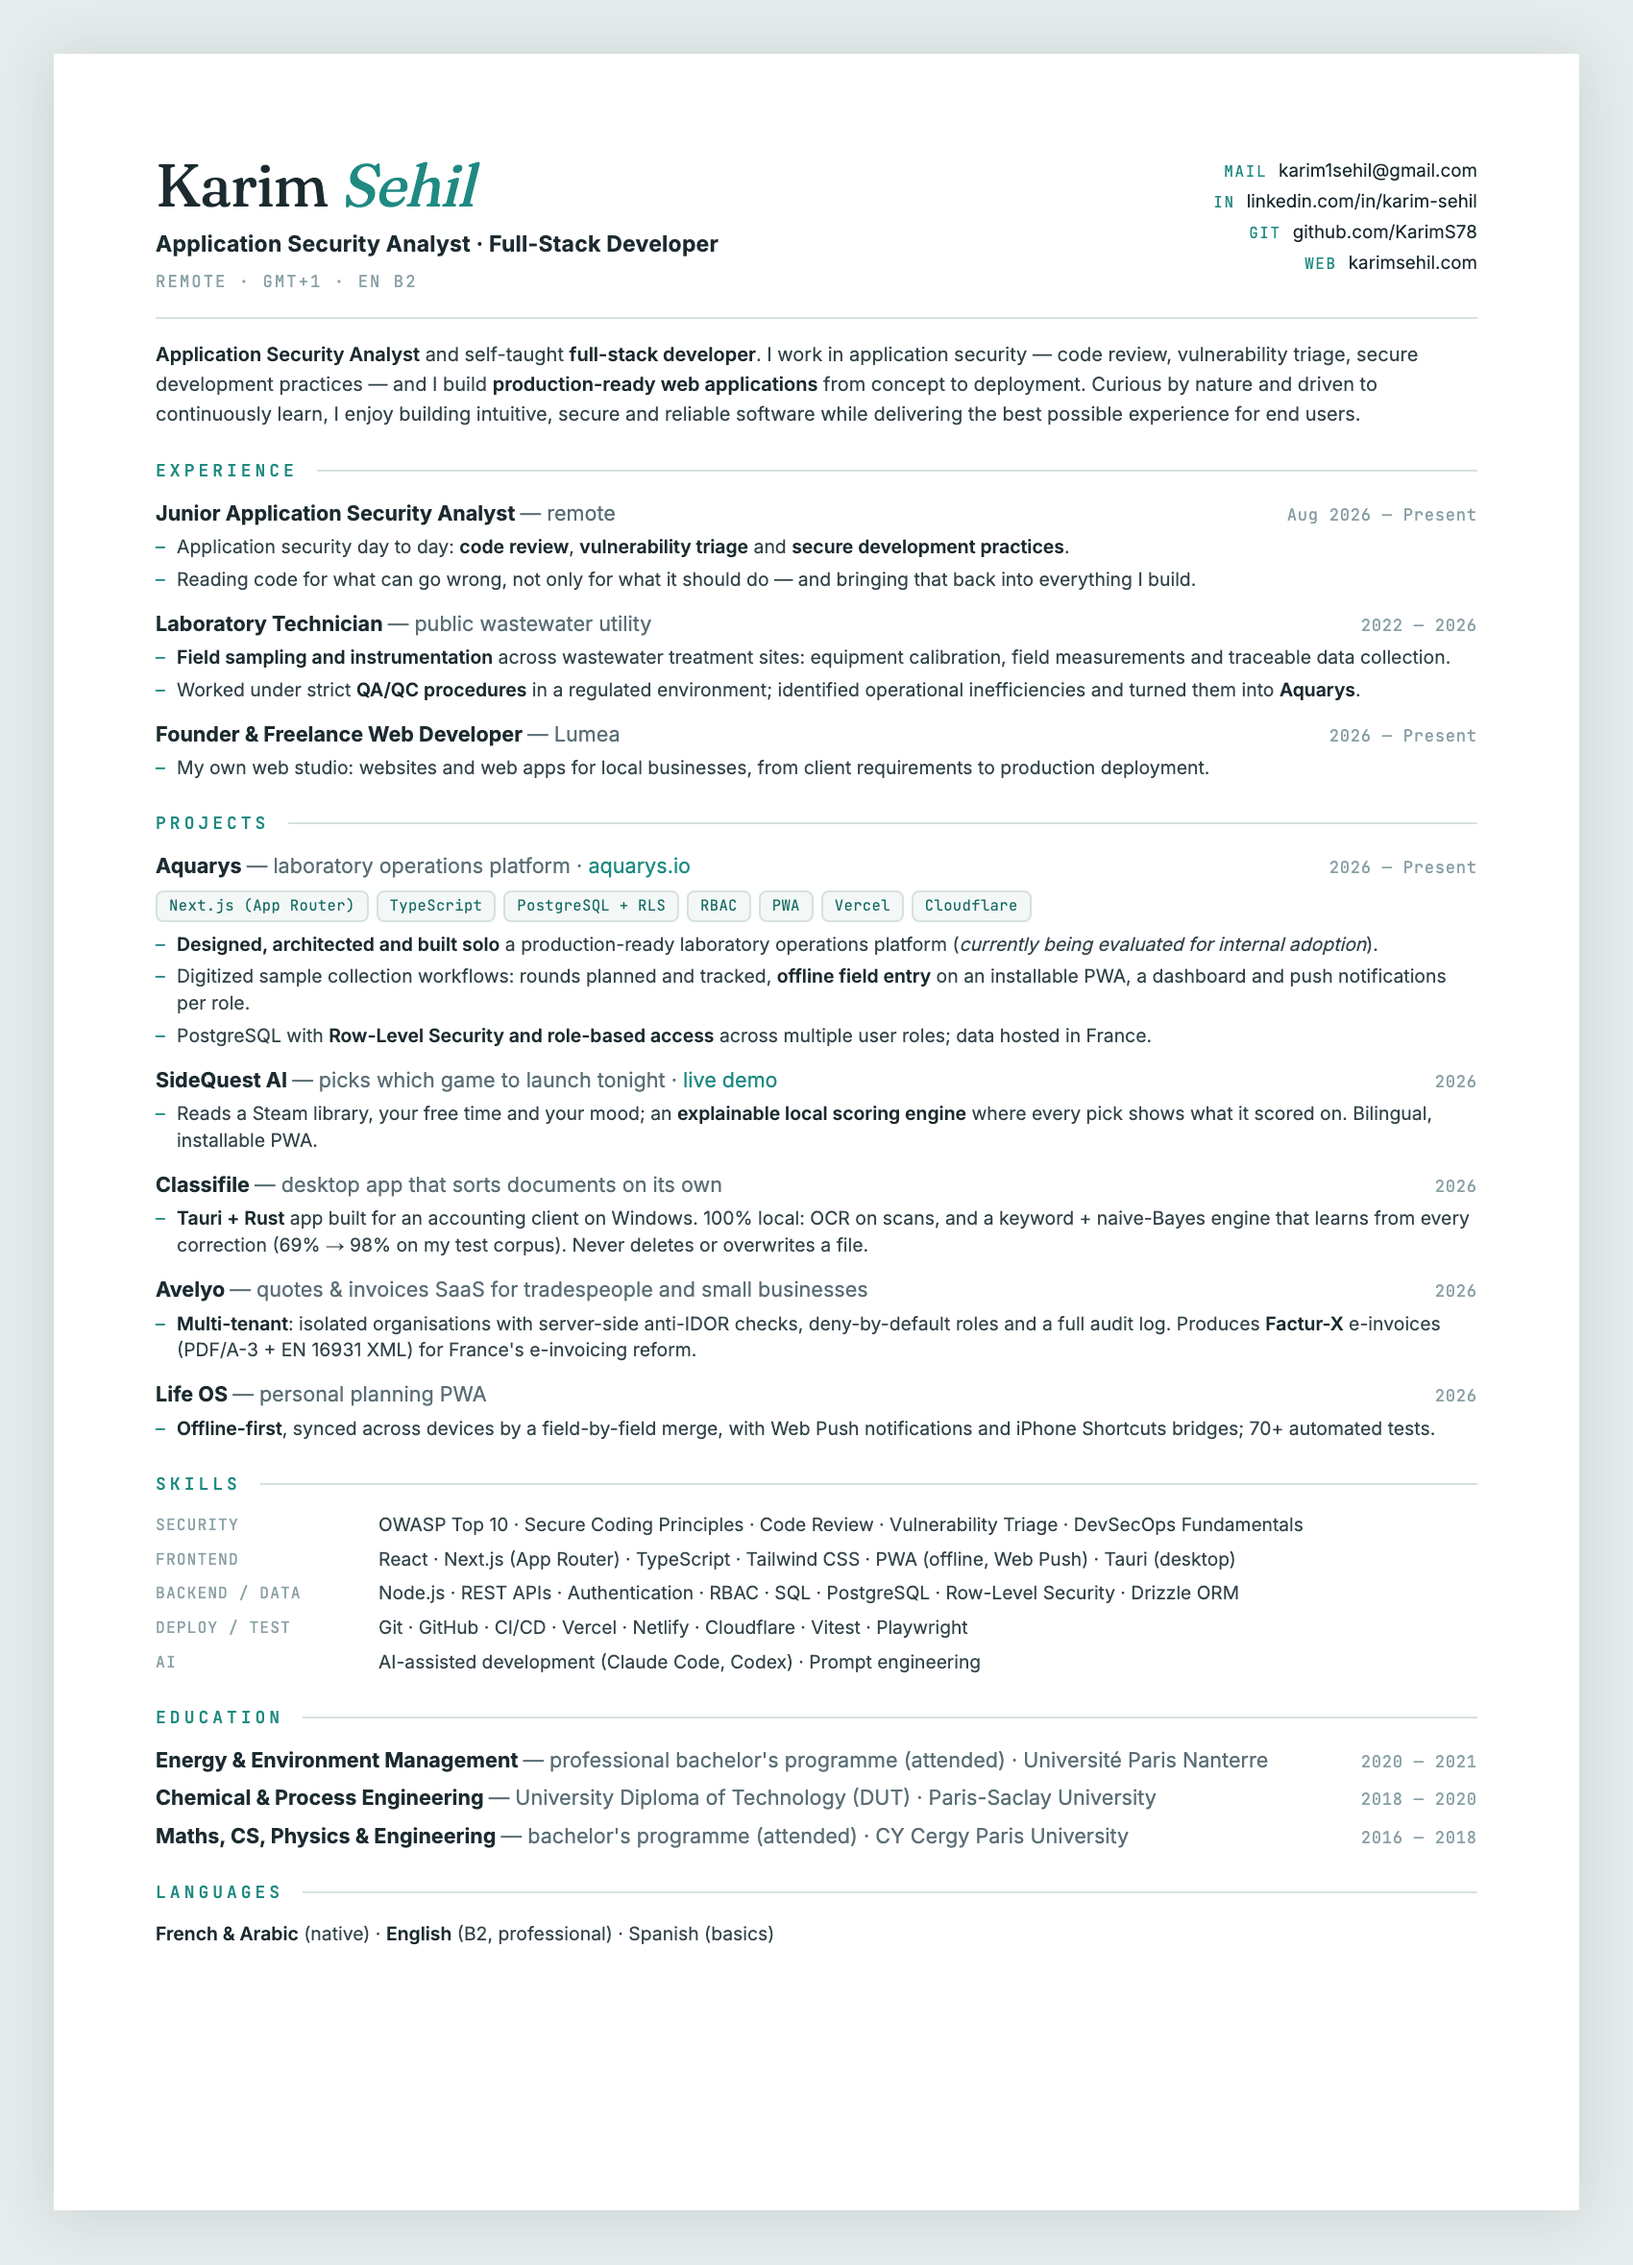
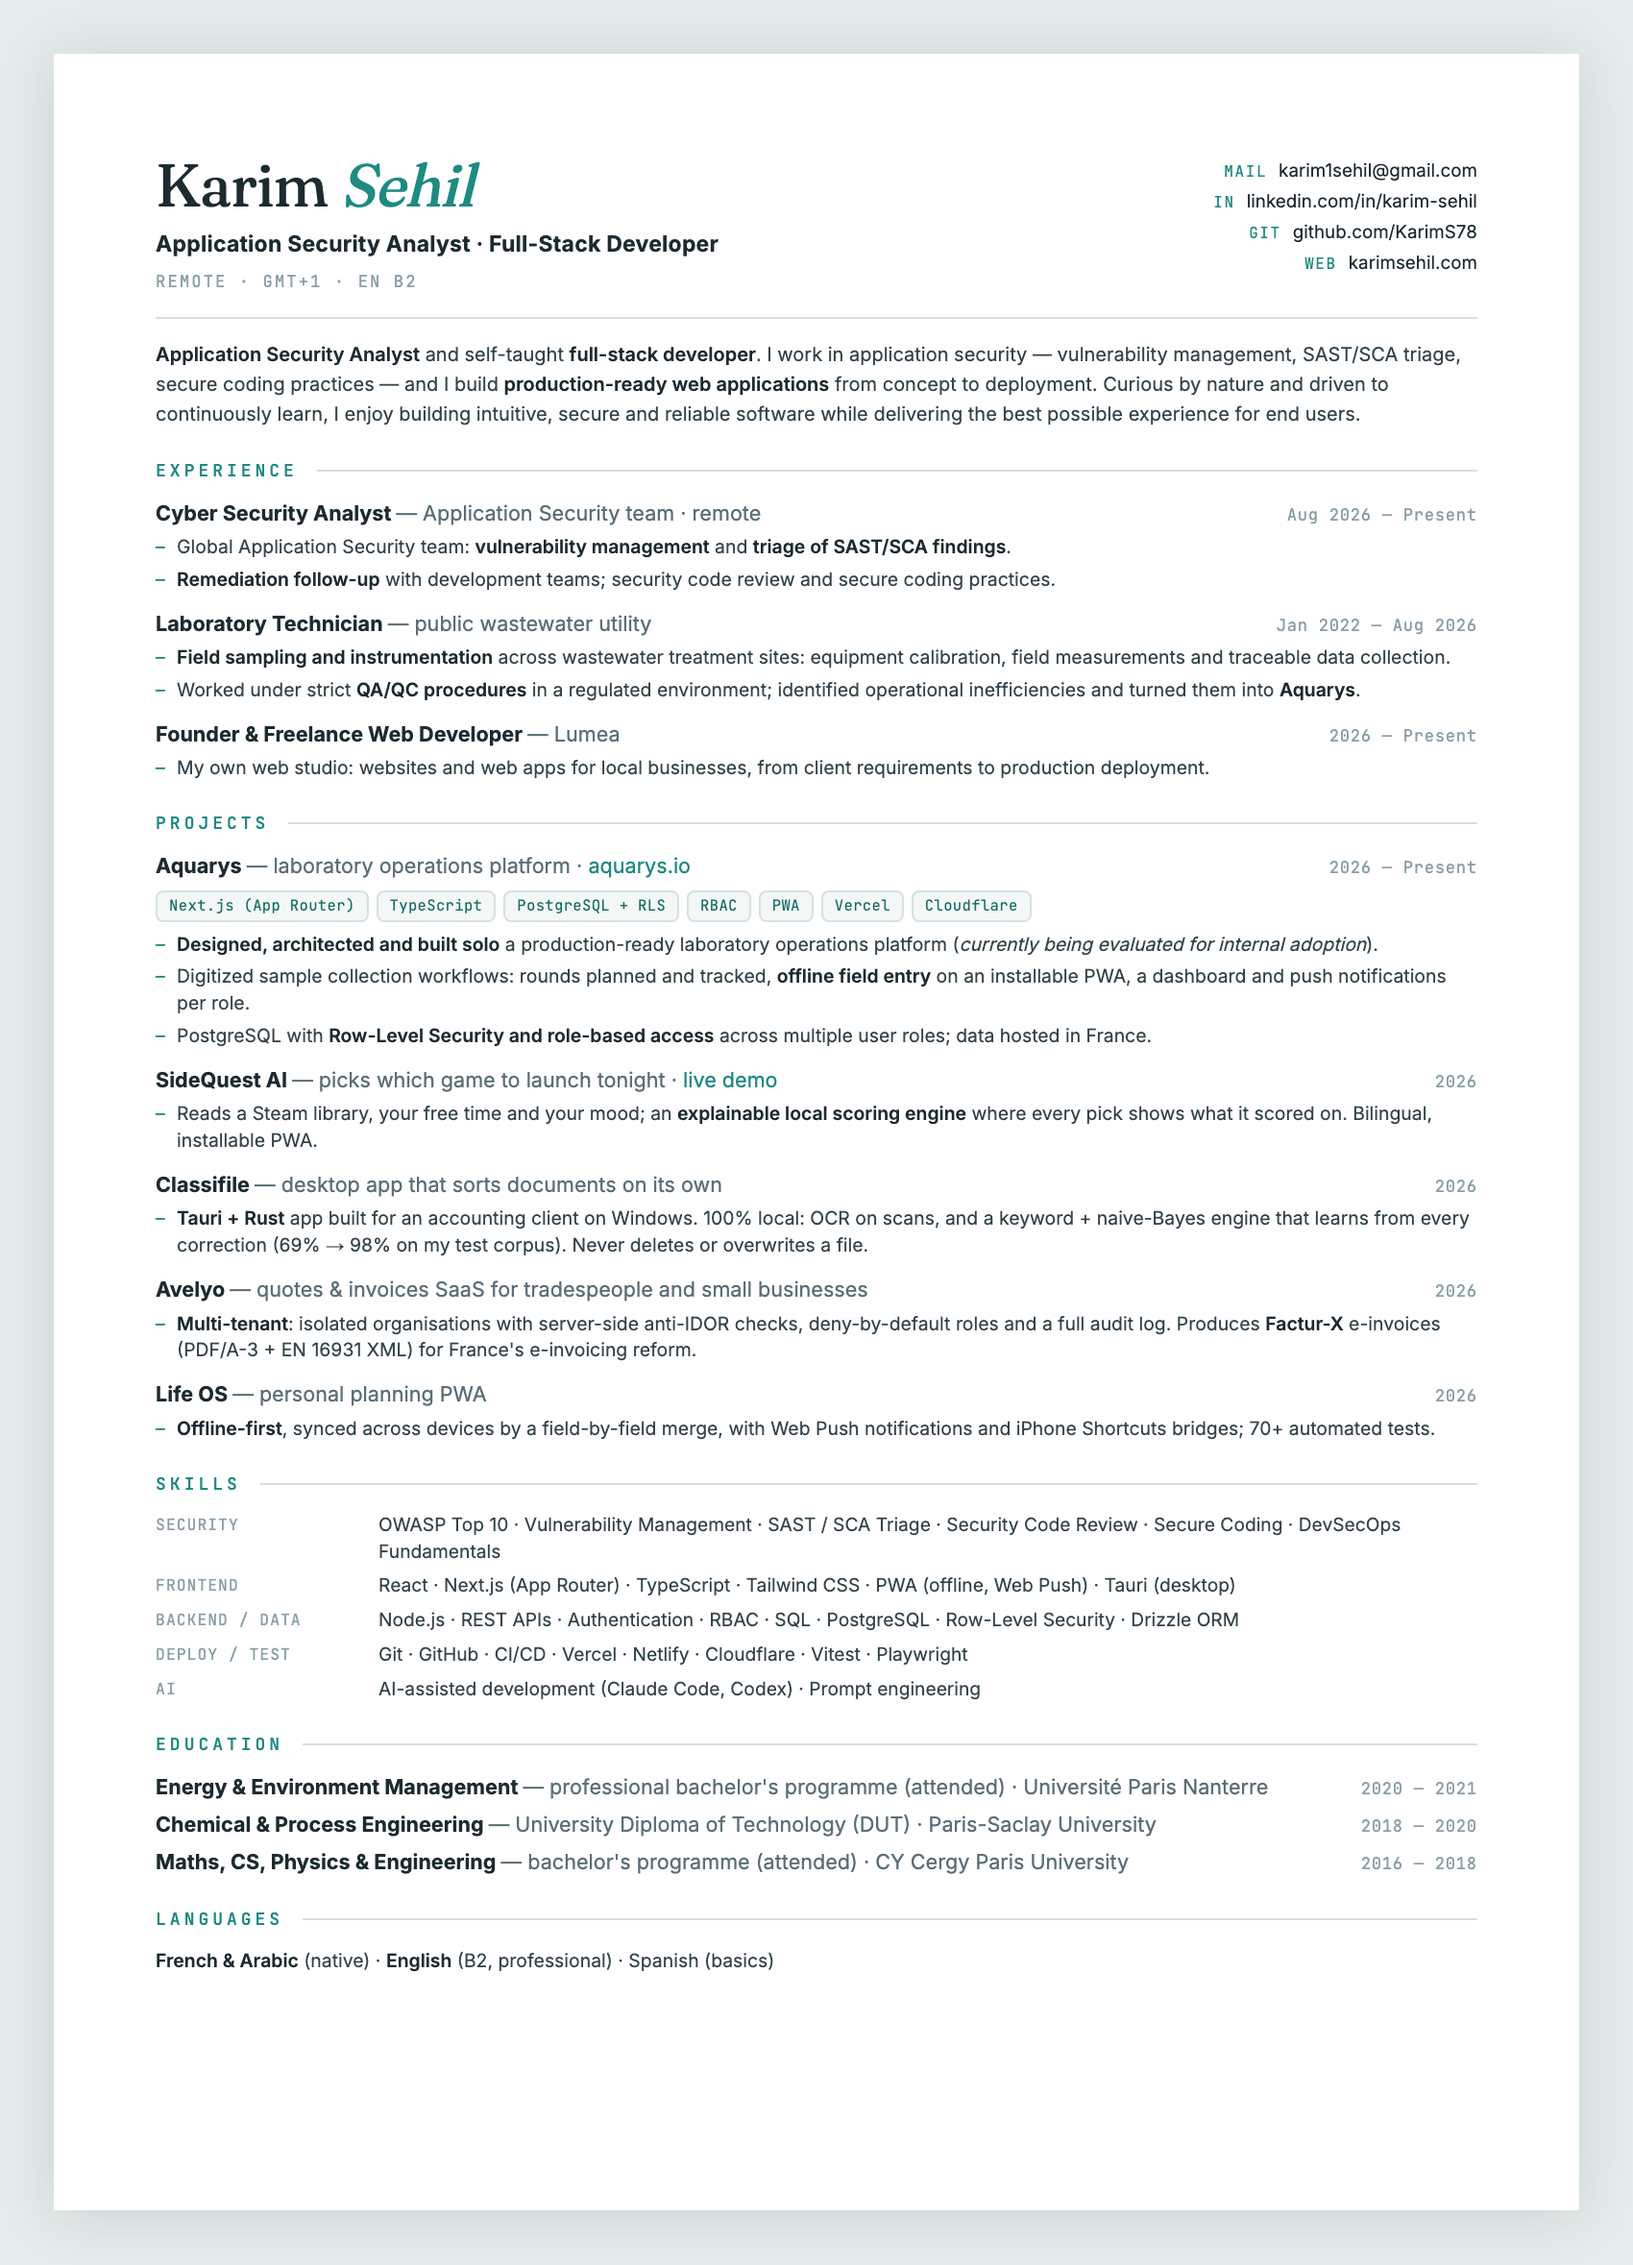
Poste actuel : intitulé, dates et missions exacts

diff --git a/index.html b/index.html
@@ -105,23 +105,23 @@
   <div class="rule"></div>
 
   <div class="summary">
-    <b>Application Security Analyst</b> and self-taught <b>full-stack developer</b>. I work in application security — code review, vulnerability triage, secure development practices — and I build <b>production-ready web applications</b> from concept to deployment. Curious by nature and driven to continuously learn, I enjoy building intuitive, secure and reliable software while delivering the best possible experience for end users.
+    <b>Application Security Analyst</b> and self-taught <b>full-stack developer</b>. I work in application security — vulnerability management, SAST/SCA triage, secure coding practices — and I build <b>production-ready web applications</b> from concept to deployment. Curious by nature and driven to continuously learn, I enjoy building intuitive, secure and reliable software while delivering the best possible experience for end users.
   </div>
 
   <div class="sec"><h2>Experience</h2><div class="ln"></div></div>
 
   <div class="item-head">
-    <div class="t">Junior Application Security Analyst <span class="desc">— <span data-private="appsec_employer">remote</span></span></div>
+    <div class="t">Cyber Security Analyst <span class="desc">— <span data-private="appsec_employer">Application Security team · remote</span></span></div>
     <div class="date">Aug 2026 — Present</div>
   </div>
   <ul>
-    <li>Application security day to day: <b>code review</b>, <b>vulnerability triage</b> and <b>secure development practices</b>.</li>
-    <li>Reading code for what can go wrong, not only for what it should do — and bringing that back into everything I build.</li>
+    <li>Global Application Security team: <b>vulnerability management</b> and <b>triage of SAST/SCA findings</b>.</li>
+    <li><b>Remediation follow-up</b> with development teams; security code review and secure coding practices.</li>
   </ul>
 
   <div class="item-head blockgap">
     <div class="t">Laboratory Technician <span class="desc">— <span data-private="lab_employer">public wastewater utility</span></span></div>
-    <div class="date">2022 — 2026</div>
+    <div class="date">Jan 2022 — Aug 2026</div>
   </div>
   <ul>
     <li><b>Field sampling and instrumentation</b> across wastewater treatment sites: equipment calibration, field measurements and traceable data collection.</li>
@@ -186,7 +186,7 @@
   <div class="sec"><h2>Skills</h2><div class="ln"></div></div>
   <div class="kv">
     <div class="k">Security</div>
-    <div class="v">OWASP Top 10 · Secure Coding Principles · Code Review · Vulnerability Triage · DevSecOps Fundamentals</div>
+    <div class="v">OWASP Top 10 · Vulnerability Management · SAST / SCA Triage · Security Code Review · Secure Coding · DevSecOps Fundamentals</div>
   </div>
   <div class="kv">
     <div class="k">Frontend</div>
